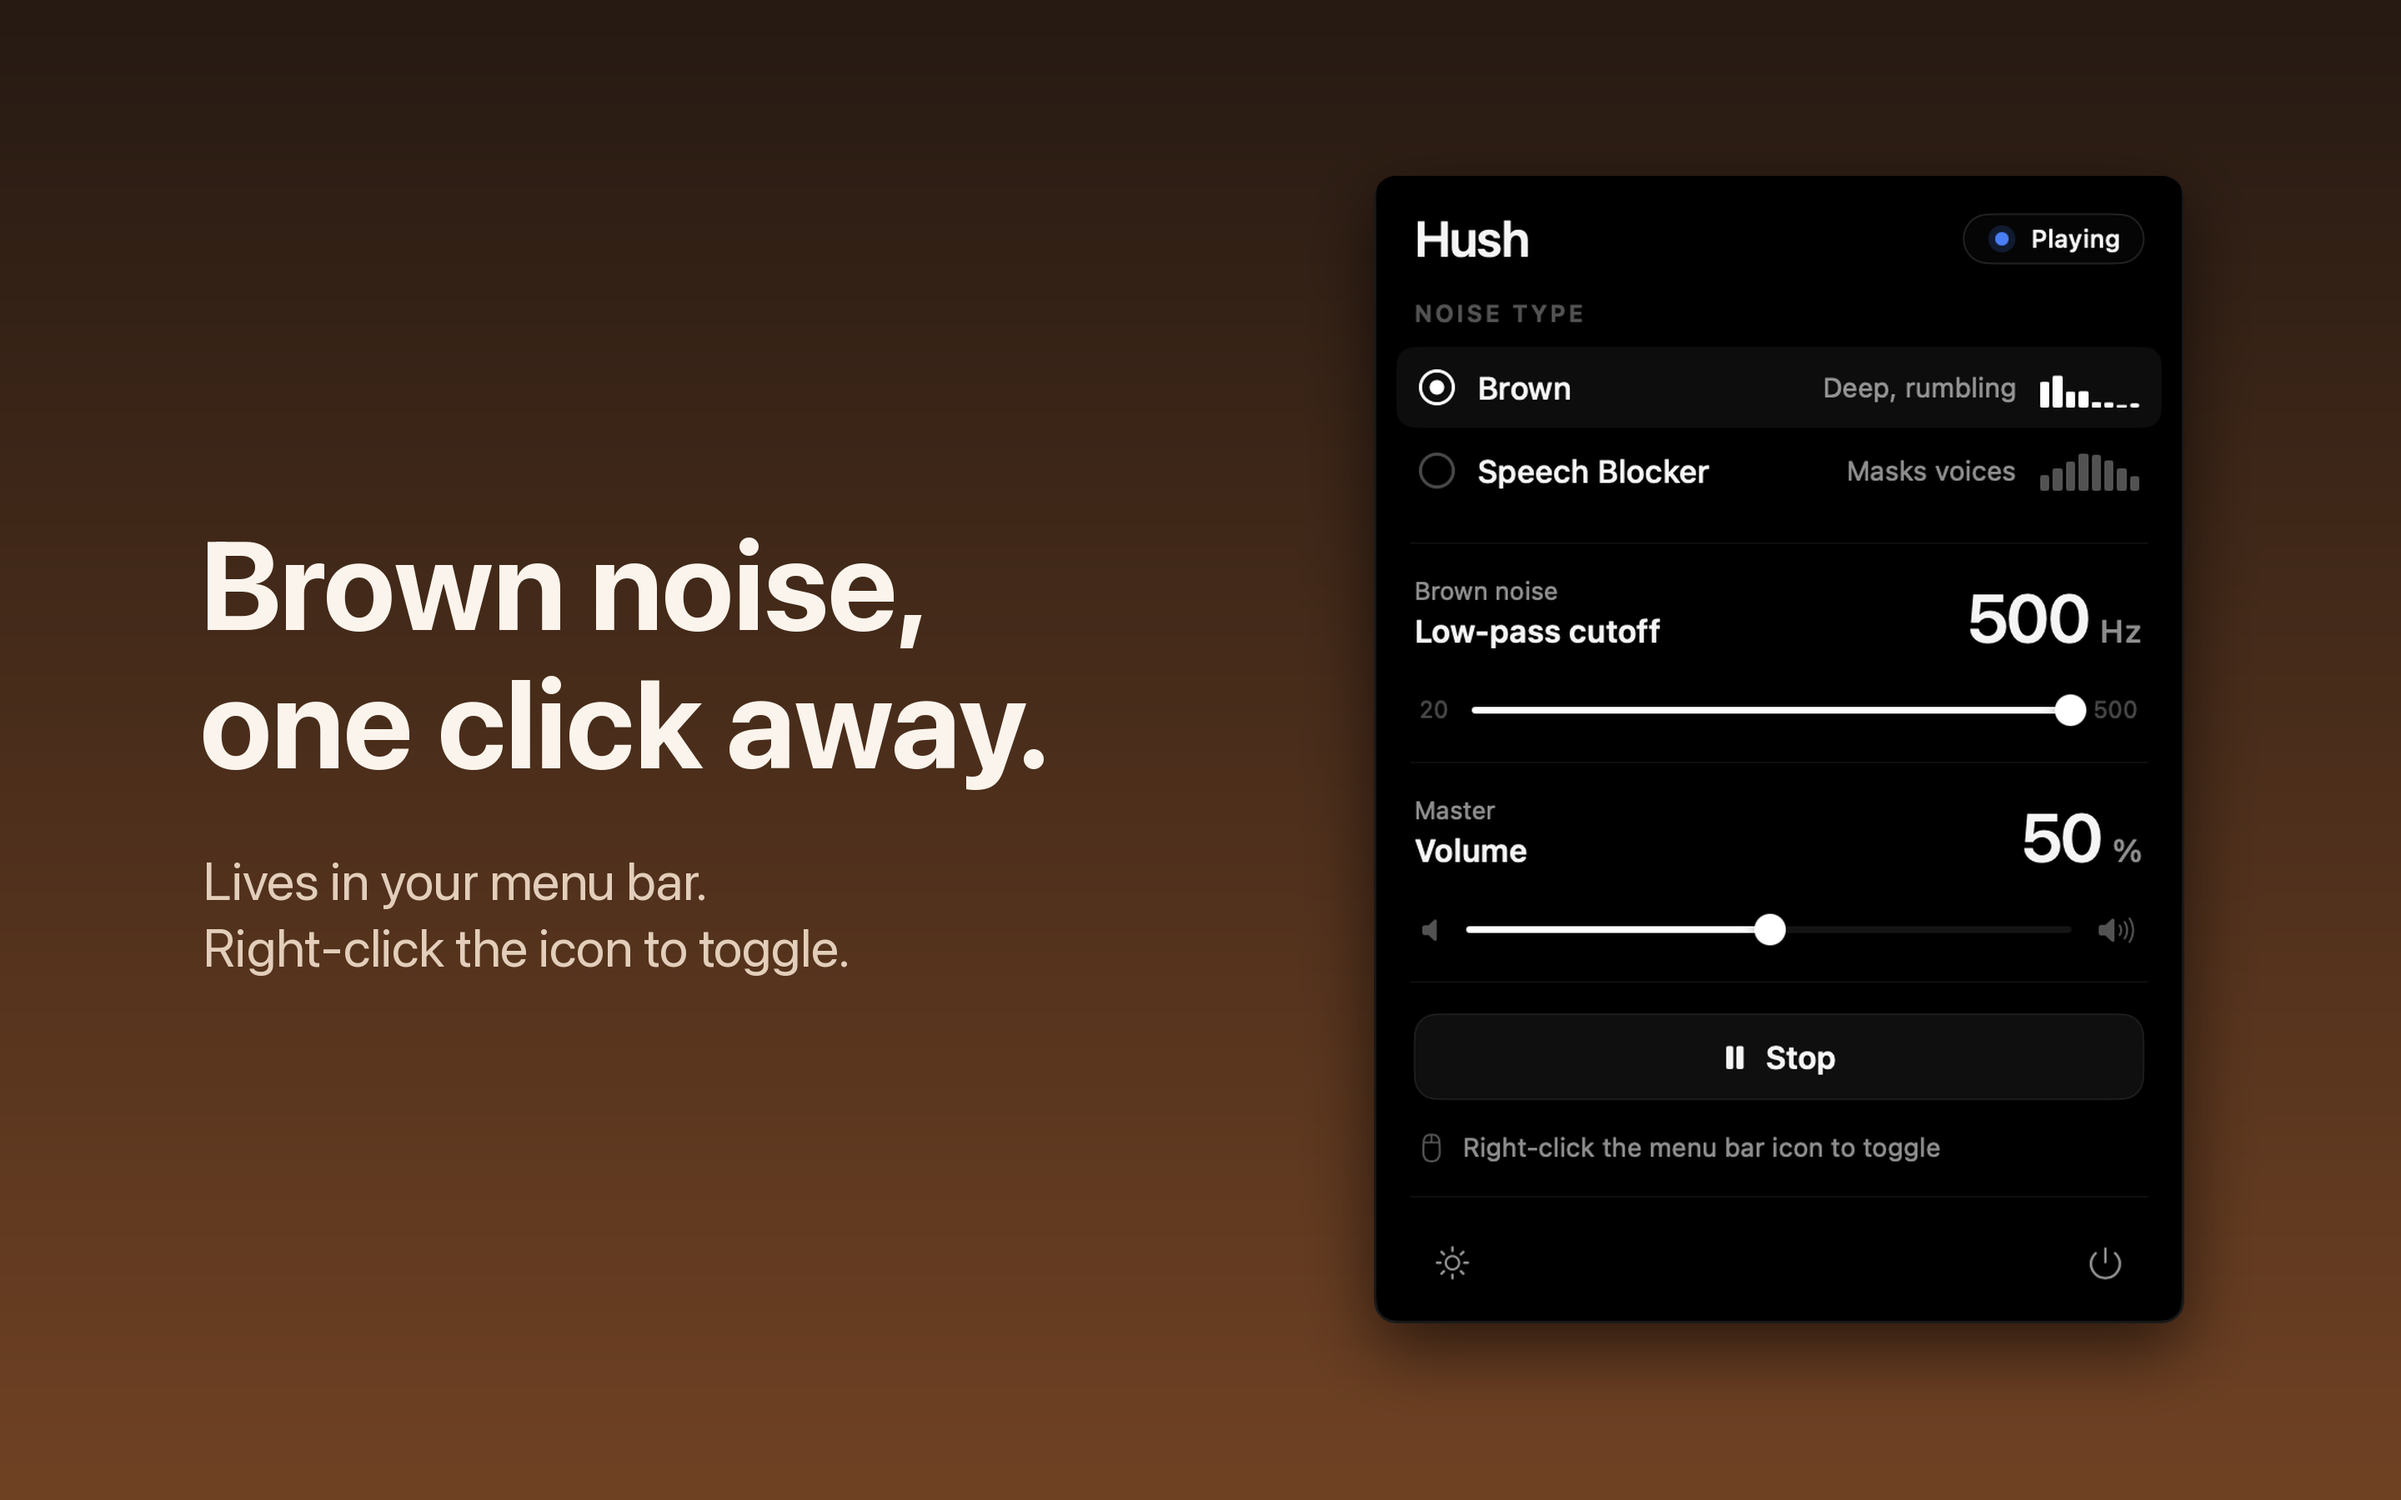
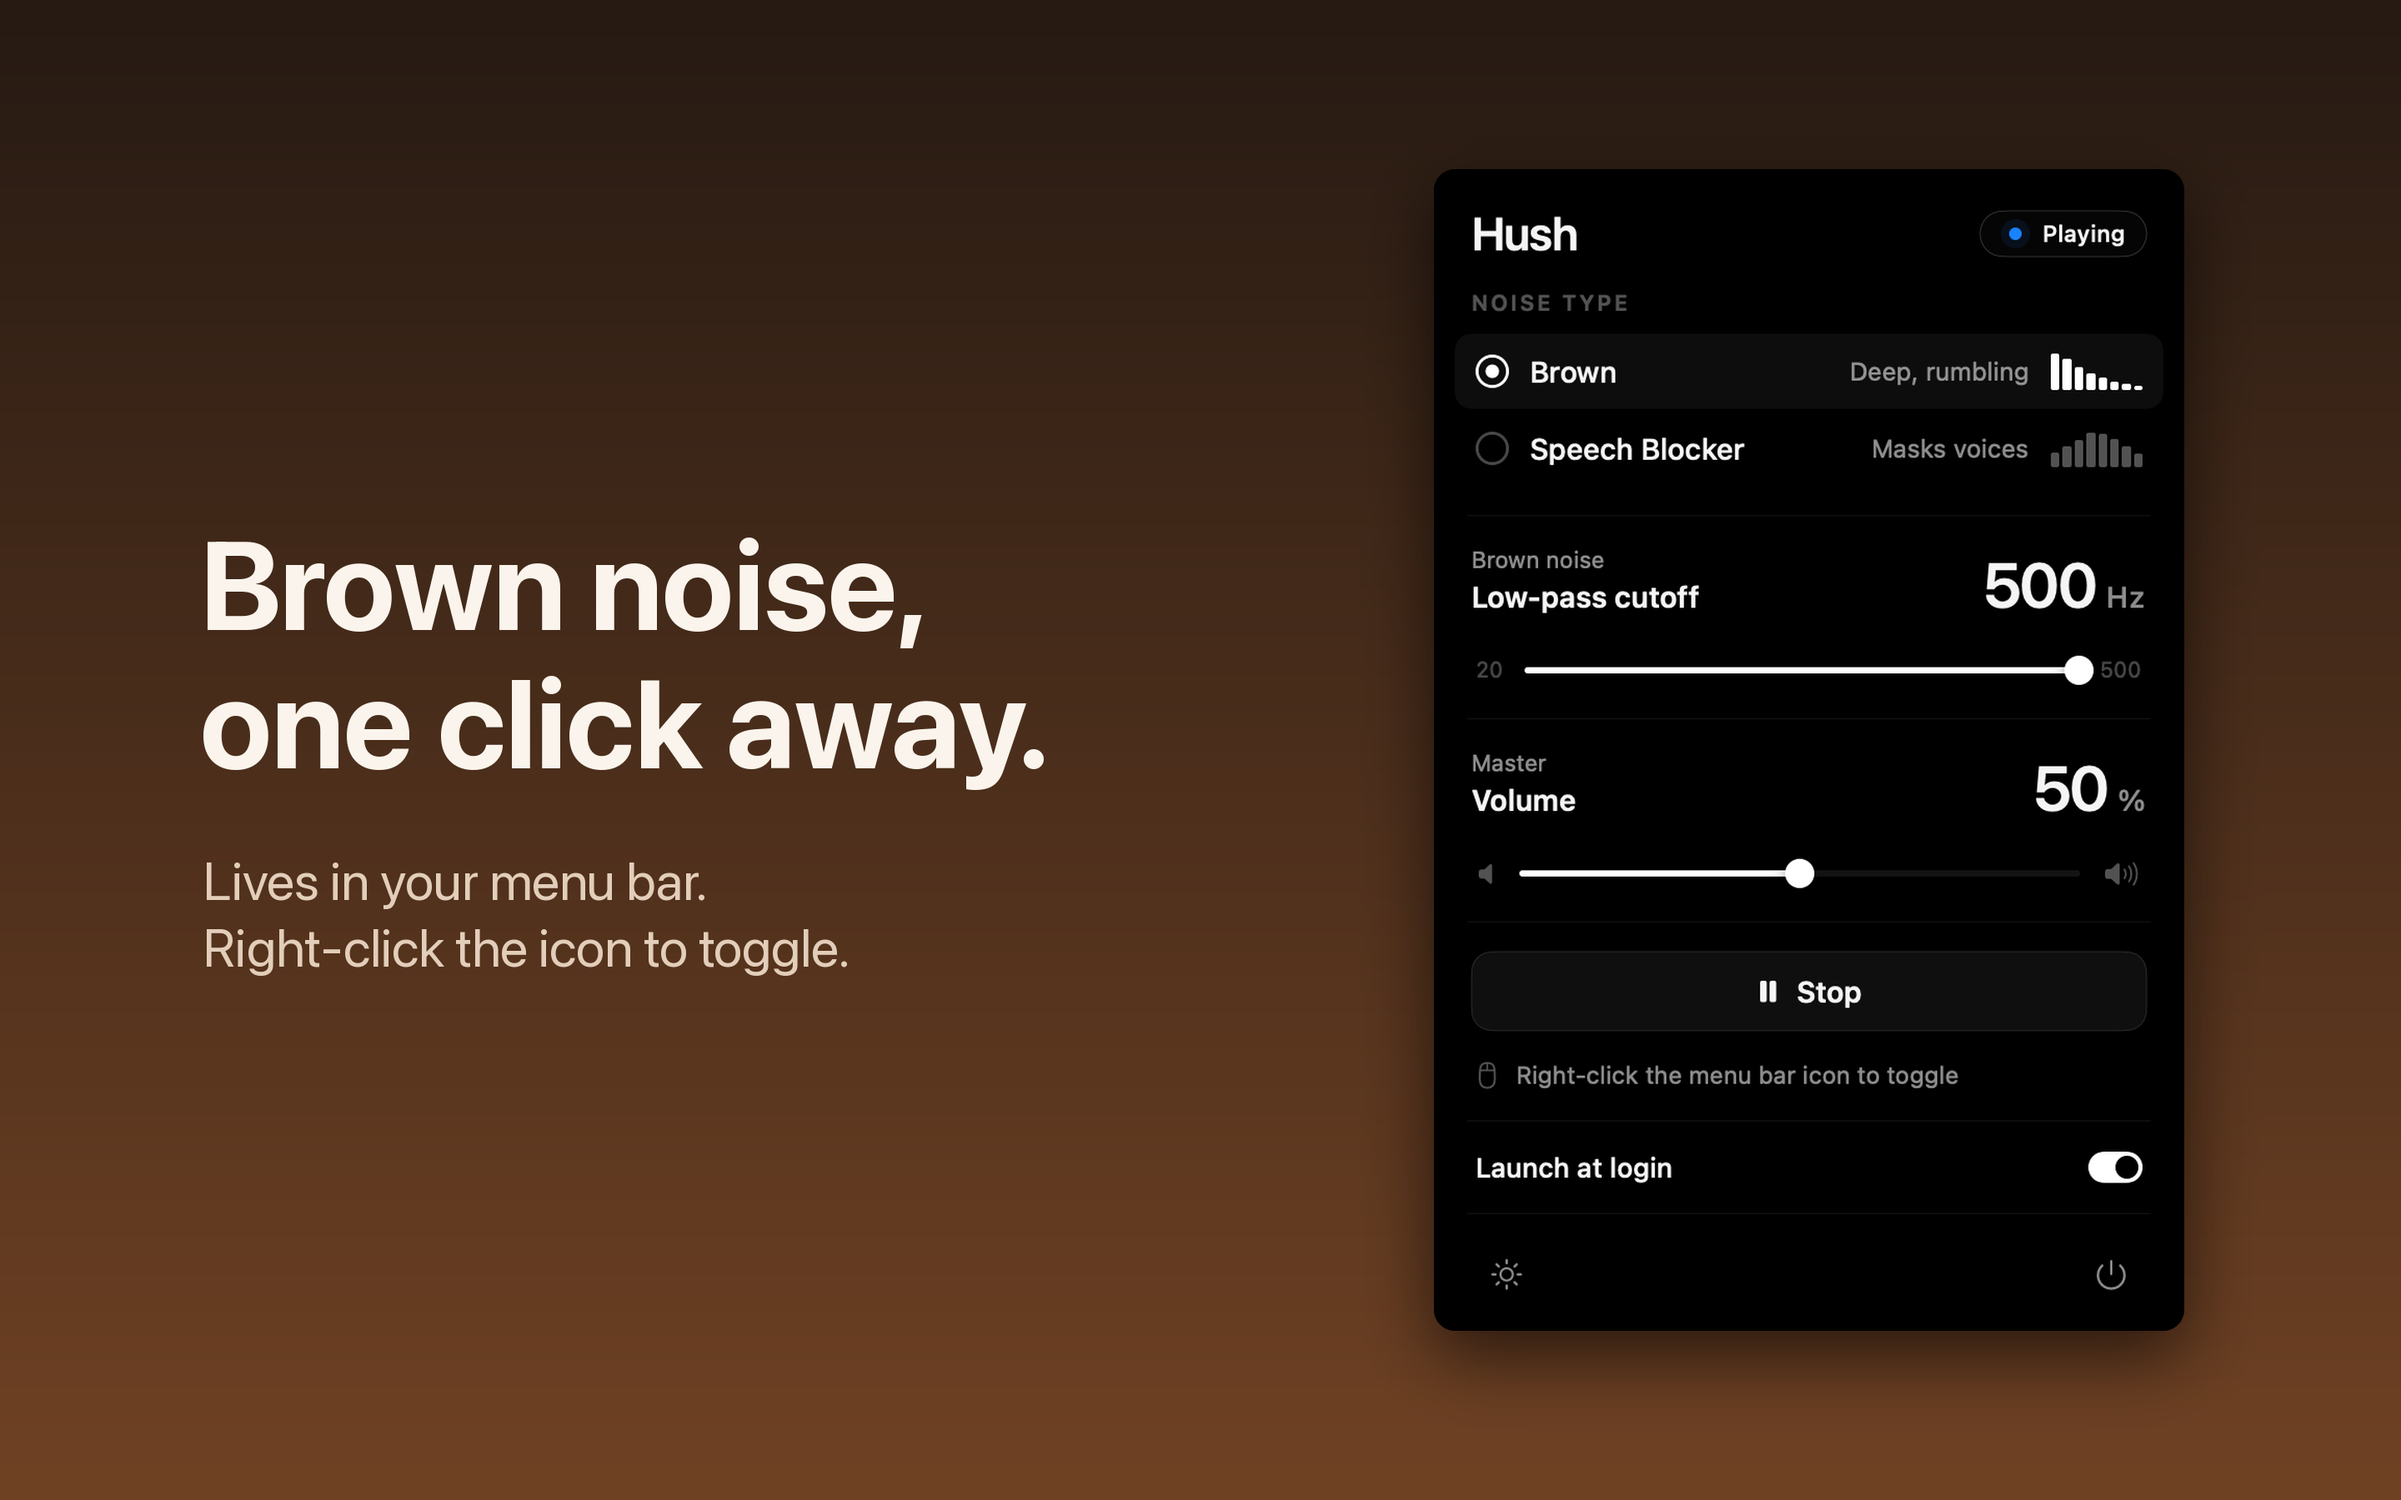
feat(app-store): refresh Mac screenshots for 1.4.0 and add a languages shot (#11)
Render the panel offscreen from the real ContentView (no screen capture), so
every shot shows the Launch at login row with its themed switch. Add a fourth
screenshot that calls out the 9 supported languages, with the panel in Japanese.

Changed region(s): [[0.5625, 0.0933, 0.9062, 0.9022], [0.75, 0.2178, 0.9062, 0.3422], [0.875, 0.7467, 0.9062, 0.8089]]

diff --git a/docs/app-store/render_panel.swift b/docs/app-store/render_panel.swift
@@ -1,0 +1,56 @@
+// Renders the real Hush ContentView offscreen to a PNG, for make_screenshots.py.
+// Built and run by render_panels.sh together with the app's own sources; never
+// touches the screen, so nothing but the panel can end up in a capture.
+//
+// Usage: render_panel <out.png> <Brown|"Speech Blocker"> <dark|light> <on|off>
+// The language comes from the usual -AppleLanguages "(de)" launch argument.
+import AppKit
+import ServiceManagement
+import SwiftUI
+
+/// Stands in for the type that HushApp.swift defines next to the @main entry.
+final class PopoverState: ObservableObject {
+    @Published var isShown = false
+}
+
+/// A login item that is already on or off, so the switch renders without
+/// registering anything with the system.
+private struct FakeLoginItem: LoginItemService {
+    let status: SMAppService.Status
+    func register() throws {}
+    func unregister() throws {}
+}
+
+let args = CommandLine.arguments
+guard args.count >= 5 else {
+    FileHandle.standardError.write(Data("usage: render_panel <out.png> <noise> <dark|light> <on|off>\n".utf8))
+    exit(2)
+}
+let (out, noise, scheme, login) = (args[1], args[2], args[3], args[4])
+
+let defaults = UserDefaults.standard
+defaults.set(noise, forKey: "selectedNoiseType")
+defaults.set(0.5, forKey: "savedVolume")
+defaults.set(scheme == "dark", forKey: "isDarkMode")
+
+let engine = AudioEngine()
+engine.isPlaying = true   // shows the "Playing" pill and the live spectrum shape
+let root = ContentView(
+    audioEngine: engine,
+    popoverState: PopoverState(),
+    launchAtLogin: LaunchAtLogin(service: FakeLoginItem(status: login == "on" ? .enabled : .notRegistered))
+)
+
+// ImageRenderer draws the SwiftUI tree directly. Caching an NSHostingView's
+// display instead leaves stray hairlines at the ends of the status pill.
+// onAppear does not run here, so apply the state it would set.
+engine.noiseType = NoiseType(rawValue: noise) ?? .brown
+engine.volume = 0.5
+
+let png: Data? = MainActor.assumeIsolated {
+    let renderer = ImageRenderer(content: root.environment(\.colorScheme, scheme == "dark" ? .dark : .light))
+    renderer.scale = 2
+    return renderer.cgImage.flatMap { NSBitmapImageRep(cgImage: $0).representation(using: .png, properties: [:]) }
+}
+guard let png else { exit(1) }
+try png.write(to: URL(fileURLWithPath: out))

diff --git a/docs/app-store/make_screenshots.py b/docs/app-store/make_screenshots.py
@@ -1,34 +1,51 @@
-#!/usr/bin/env python3
 """Build Mac App Store screenshots for Hush.
 
-Cuts the Hush controls panel out of full-screen captures and places it on a
-brown gradient with a headline. The raw captures are not committed: they show
-whatever was behind the panel. Take new ones with the panel open (Shift-Cmd-3),
-then set each capture's path and the panel's pixel box below.
+Puts the Hush controls panel on a brown gradient with a headline. The panel
+images come from render_panels.sh, which draws the app's real SwiftUI view
+offscreen, so nothing is ever captured from the screen.
 
-Requires Pillow (pip install pillow) and macOS for the SF system font.
+Usage: render_panels.sh captures && python3 make_screenshots.py captures
+(the directory defaults to ./captures).
+
+Requires Pillow (pip install pillow) and macOS for the system fonts.
 Output: 2880x1800 PNGs, one of Apple's accepted Mac sizes.
 """
+import sys
 from pathlib import Path
 
 from PIL import Image, ImageDraw, ImageFilter, ImageFont
 
 OUT = Path(__file__).parent
 W, H = 2880, 1800
-SCALE = 1.35          # panel enlargement
+SCALE = 1.25          # panel enlargement
 RADIUS = 20           # panel corner radius in capture pixels
 FONT = "/System/Library/Fonts/SFNS.ttf"
 TOP, BOTTOM = (38, 26, 19), (112, 66, 36)
 
-# (capture path, panel box (left, top, right, bottom) in capture pixels,
-#  headline, subline, output name)
+# The app's languages (English plus the 8 in Localizable.xcstrings), each in
+# its own script. SF has no CJK glyphs, so those names use a system CJK font.
+CJK = {
+    "日本語": "/System/Library/Fonts/ヒラギノ角ゴシック W3.ttc",
+    "한국어": "/System/Library/Fonts/AppleSDGothicNeo.ttc",
+    "简体中文": "/System/Library/Fonts/Hiragino Sans GB.ttc",
+}
+LANGUAGES = [
+    ["English", "Deutsch", "Español"],
+    ["Français", "Italiano", "Português"],
+    ["日本語", "한국어", "简体中文"],
+]
+
+# (panel capture, headline, subline, output name, show the language list)
 SHOTS = [
-    ("brown.png", (4502, 86, 5222, 1106), "Brown noise,\none click away.",
-     "Lives in your menu bar.\nRight-click the icon to toggle.", "1-brown.png"),
-    ("speech.png", (4502, 86, 5222, 910), "Tune out\nthe voices.",
-     "Speech Blocker is shaped to mask\nnearby conversation.", "2-speech.png"),
-    ("light.png", (4502, 86, 5222, 1106), "Offline.\nPrivate.",
-     "Every sound is generated live\non your Mac. Nothing leaves it.", "3-light.png"),
+    ("brown.png", "Brown noise,\none click away.",
+     "Lives in your menu bar.\nRight-click the icon to toggle.", "1-brown.png", False),
+    ("speech.png", "Tune out\nthe voices.",
+     "Speech Blocker is shaped to mask\nnearby conversation.", "2-speech.png", False),
+    ("light.png", "Offline.\nPrivate.",
+     "Every sound is generated live\non your Mac. Nothing leaves it.", "3-light.png", False),
+    # The panel is shown in Japanese; the caption stays English.
+    ("ja.png", "Speaks your\nlanguage.",
+     "Hush is available in 9 languages:", "4-languages.png", True),
 ]
 
 
@@ -41,8 +58,23 @@ def background():
     return img
 
 
-def build(capture, box, head, sub, name, base, bold, regular):
-    panel = Image.open(capture).convert("RGB").crop(box)
+def draw_languages(draw, x, y, regular_small):
+    """Draws LANGUAGES, one row per line, each name in a font that has its glyphs."""
+    sep = "  \u00b7  "
+    for row in LANGUAGES:
+        cx = x
+        for n, name in enumerate(row):
+            font = ImageFont.truetype(CJK[name], 52) if name in CJK else regular_small
+            draw.text((cx, y), name, font=font, fill=(250, 244, 236), anchor="ls")
+            cx += draw.textlength(name, font=font)
+            if n < len(row) - 1:
+                draw.text((cx, y), sep, font=regular_small, fill=(170, 140, 114), anchor="ls")
+                cx += draw.textlength(sep, font=regular_small)
+        y += 96
+
+
+def build(capture, head, sub, name, languages, base, bold, regular, small):
+    panel = Image.open(capture).convert("RGB")
     panel = panel.resize((round(panel.width * SCALE), round(panel.height * SCALE)), Image.LANCZOS)
     w, h = panel.size
     r = round(RADIUS * SCALE)
@@ -60,19 +92,24 @@ def build(capture, box, head, sub, name, base, bold, regular):
     draw = ImageDraw.Draw(img)
     hb = draw.multiline_textbbox((0, 0), head, font=bold, spacing=20)
     sb = draw.multiline_textbbox((0, 0), sub, font=regular, spacing=18)
-    y0 = (H - ((hb[3] - hb[1]) + 70 + (sb[3] - sb[1]))) // 2 - hb[1]
+    langs = 60 + len(LANGUAGES) * 96 if languages else 0
+    y0 = (H - ((hb[3] - hb[1]) + 70 + (sb[3] - sb[1]) + langs)) // 2 - hb[1]
     draw.multiline_text((240, y0), head, font=bold, fill=(250, 244, 236), spacing=20)
     draw.multiline_text((244, y0 + hb[3] + 70), sub, font=regular, fill=(226, 206, 186), spacing=18)
+    if languages:
+        draw_languages(draw, 244, y0 + hb[3] + 70 + sb[3] + 130, small)
     img.save(OUT / name)
 
 
 def main():
+    captures = Path(sys.argv[1] if len(sys.argv) > 1 else "captures")
     bold = ImageFont.truetype(FONT, 150)
     bold.set_variation_by_name("Bold")
     regular = ImageFont.truetype(FONT, 64)
+    small = ImageFont.truetype(FONT, 52)
     base = background()
-    for shot in SHOTS:
-        build(*shot, base, bold, regular)
+    for capture, *rest in SHOTS:
+        build(captures / capture, *rest, base, bold, regular, small)
 
 
 if __name__ == "__main__":

diff --git a/docs/app-store/README.md b/docs/app-store/README.md
@@ -1,27 +1,35 @@
 # Mac App Store screenshots
 
-Screenshots for the Hush 1.3.0 Mac App Store listing, 2880x1800 each:
+Screenshots for the Hush 1.4.0 Mac App Store listing, 2880x1800 each:
 
 - `1-brown.png`: "Brown noise, one click away."
 - `2-speech.png`: "Tune out the voices."
-- `3-light.png`: "Offline. Private."
+- `3-light.png`: "Offline. Private." (light theme)
+- `4-languages.png`: "Speaks your language." Lists the 9 languages the app is
+  available in, with the panel shown in Japanese. The captions stay English.
 
-Each one is the Hush controls panel cut out of a full-screen capture and placed
-on a brown gradient with a headline, built by `make_screenshots.py`.
+Each one is the Hush controls panel on a brown gradient with a headline, built by
+`make_screenshots.py`. Every panel includes the Launch at login row with its
+themed switch.
 
 ## Regenerating
 
-1. Open the Hush panel and take a full-screen capture (Shift-Cmd-3) for each shot.
-2. In `make_screenshots.py`, set each capture's path and the panel's pixel box
-   `(left, top, right, bottom)` in `SHOTS`. Capture paths are relative to the
-   directory you run the script from.
-3. `pip install pillow`
-4. `python3 docs/app-store/make_screenshots.py` (macOS; it uses the SF system font).
+The panel images are drawn offscreen from the app's own SwiftUI view, so nothing
+is ever captured from the screen and no raw captures need to be kept.
 
-The PNGs are written next to the script.
+1. `docs/app-store/render_panels.sh <dir>` compiles `ContentView.swift` and its
+   model files with `render_panel.swift`, then writes `brown.png`, `speech.png`,
+   `light.png` and `ja.png` (the panel only) into `<dir>`. Use a directory
+   outside the repo, or `captures/`, which is git-ignored. It needs Xcode's
+   command line tools and takes the strings from `Localizable.xcstrings`, so
+   the panel always matches the current app. The state to show (noise type,
+   theme, login switch, language) is set at the bottom of the script.
+2. `pip install pillow`
+3. `python3 docs/app-store/make_screenshots.py <dir>` (macOS; it uses system
+   fonts, including CJK ones for the language list).
 
-The raw full-screen captures are intentionally not committed: they show
-whatever was behind the panel.
+The PNGs are written next to the script. Per-locale screenshot sets (each
+listing language with its own captions) are not made yet.
 
 ## Listing text
 
